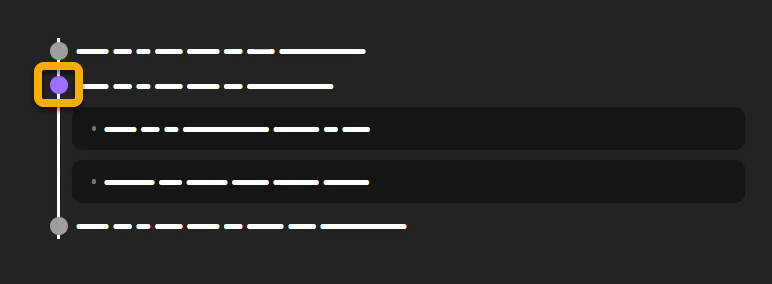
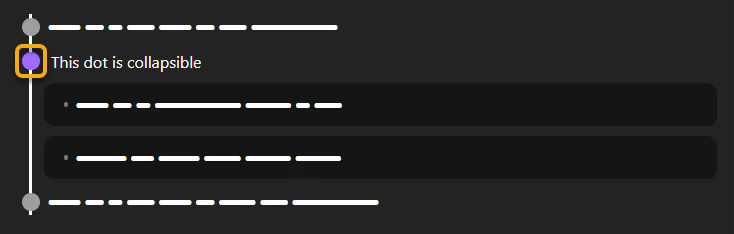
Updated settings with helpful screenshots. I'M SORRY I'LL STOP WORKING OFF MASTER SOON

Changed region(s): [[0.0, 0.0598, 0.5395, 0.9274]]

diff --git a/src/configuration.ts b/src/configuration.ts
@@ -54,7 +54,7 @@ export class VerticalTimelineListPluginConfiguration {
     this.timelineThemesCSSColors["dot"] = [
       {
         name: "Dot color",
-        description: "Dates without descriptions",
+        description: "Dots without details",
         image: "Dot.png",
         0: {
           property: "color",
@@ -69,7 +69,7 @@ export class VerticalTimelineListPluginConfiguration {
       } as ThemesCSSColorProperty & ConfigurationDetails,
       {
         name: "Dot collapsible color",
-        description: "Dates with descriptions",
+        description: "Dots with details",
         image: "CollapsibleDot.png",
         0: {
           property: "collapsible-color",
@@ -117,7 +117,7 @@ export class VerticalTimelineListPluginConfiguration {
     ];
     this.timelineThemesCSSColors["dotChildren"] = [
       {
-        name: "Date description background color",
+        name: "Dot details background color",
         description: "",
         image: "DotDescription.png",
         0: {
@@ -137,7 +137,7 @@ export class VerticalTimelineListPluginConfiguration {
     this.timelineCSSToggles["dot"] = [
       {
         name: "Dot collapsible",
-        description: "Dates with descriptions can be collapsed",
+        description: "Dots with details can be collapsed",
         image: "CollapsingDot.gif",
         enabled: false,
         true: {

diff --git a/styles.css b/styles.css
@@ -152,6 +152,10 @@ body {
       font-style: italic;
       margin: 15px;
     }
+
+    th, td {
+      border: none !important;
+    }
   }
 }
 

diff --git a/README.md b/README.md
@@ -6,15 +6,15 @@ An [Obsidian](https://obsidian.md/) plugin that utilizes task lists to create a 
 
 ## Usage
 
-Timelines are denoted using a task list with a 't' within the brackets. The dates of the timeline are then added as nested lists as well as their descriptions.
+Timelines are denoted using a task list with a 't' within the brackets. The dates of the timeline are then added as nested lists as well as their details.
 
 For example, the following 
 ```
 # Example
 - [t]
   - 2020
-    - Description for 2020
-    - Additional description for 2020
+    - Detail for 2020
+    - Additional detail for 2020
   - 2021
   - 2022
 ```
